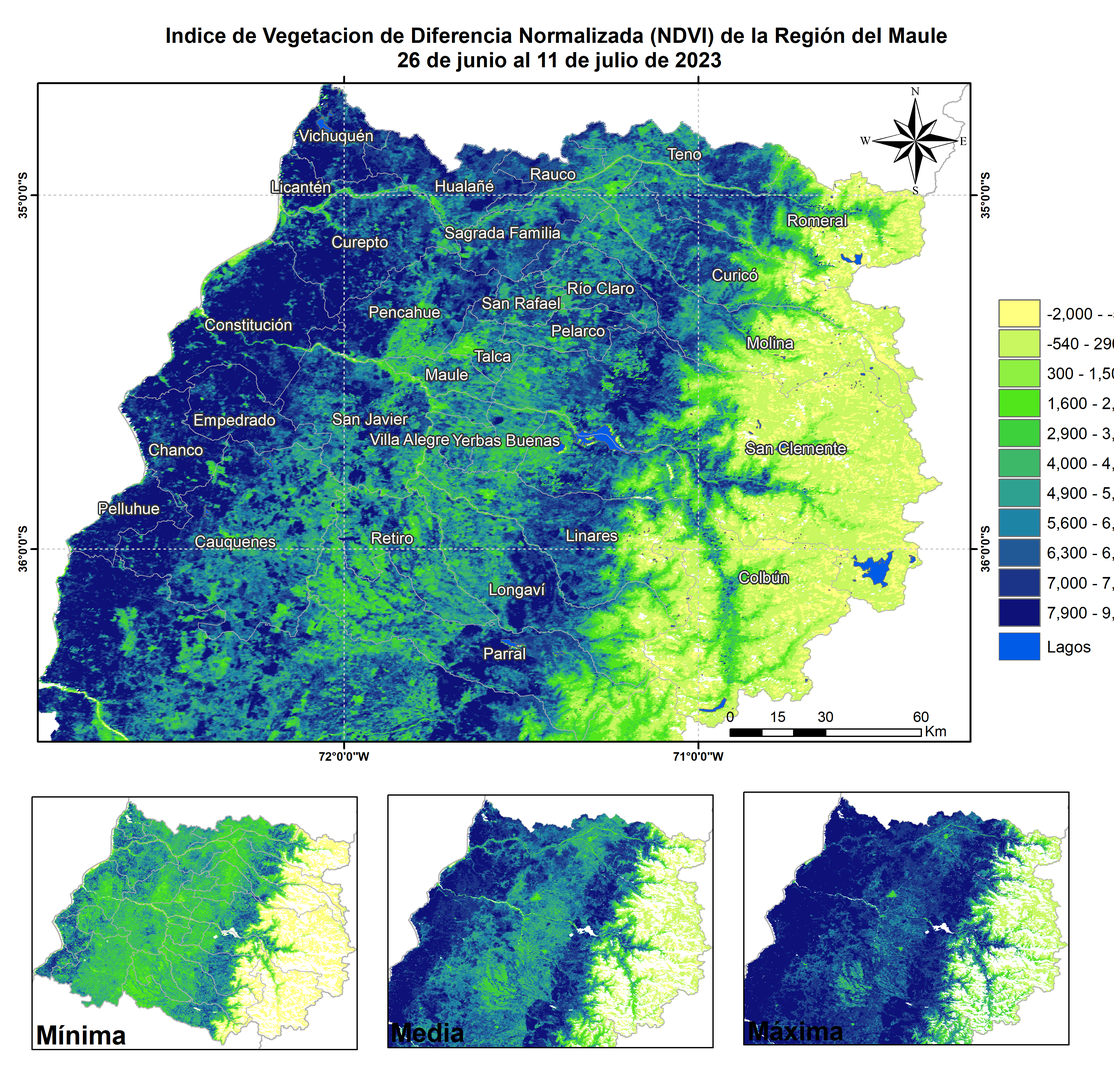
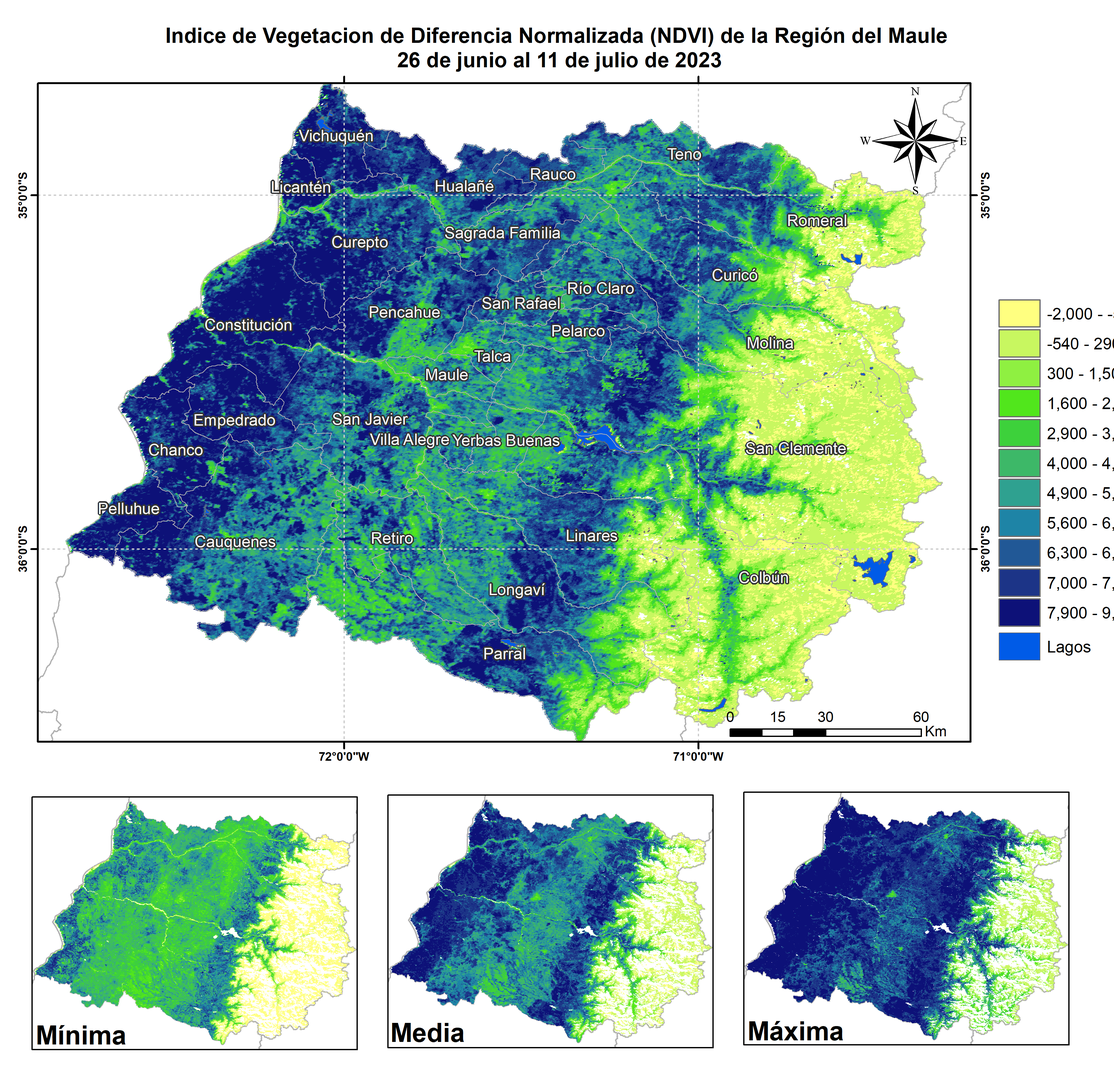
se colocan visibles las capas correctas en los 3 dataframe

diff --git a/NDVI_Y_SAVI.py b/NDVI_Y_SAVI.py
@@ -587,6 +587,16 @@ for veg_index in veg_index_:
                 elem.text = titulo_nuevo
                 break
 
+        tif0="{}_{}_{}.tif".format(region,lyr,veg_index)
+        # Asegurarse de que la capa "tif" está visible
+        df = arcpy.mapping.ListDataFrames(mxd)[0]
+        tif_layers = arcpy.mapping.ListLayers(mxd,tif0,df)
+        if tif_layers:
+            tif_layer = tif_layers[0]
+            tif_layer.visible = True
+            arcpy.RefreshActiveView()
+        else:
+            print("Capa 'TIF0' act no encontrada.")           
         ##--------------------------------------------------------------------------------------------
         #comienzo Dataframe 1
         df = arcpy.mapping.ListDataFrames(mxd)[1]
@@ -616,51 +626,6 @@ for veg_index in veg_index_:
             arcpy.RefreshActiveView()
         else:
             print("Capa 'Regional' no encontrada.")
-
-
-
-#eliminar quizas
-        aplicar_simbologia(region,lyr,df)
-        remover_capa_glaciares()
-        # Establecer la visibilidad y el zoom basado de la región
-        layer_principal_list = arcpy.mapping.ListLayers(mxd, region,df)
-        if layer_principal_list:
-            layer_principal = layer_principal_list[0]
-            arcpy.RefreshActiveView()
-            
-            df.extent = layer_principal.getExtent()
-            arcpy.RefreshActiveView()
-            
-            #layer_principal.visible = False  # Desactivar la visibilidad después del zoom
-            #arcpy.RefreshActiveView()
-        else:
-            print("No se encontró la capa principal {}".format(region))
-            return
-
-        if region == "R13":
-            capas = [layer.name for layer in arcpy.mapping.ListLayers(mxd) if layer.name == "R13"]
-        else:
-            capas = [region]
-
-        capas.extend(["{}_{}_{}.tif".format(region,lyr,veg_index), "Lagos_{}".format(region)])
-        
-     
-
-        for capa in capas:
-            layer_list = arcpy.mapping.ListLayers(mxd, capa,df)
-            if layer_list:
-                layer = layer_list[0]
-                layer.visible = True
-                arcpy.RefreshActiveView()
-            else:
-                print("No se encontró la capa {}".format(capa))
-
-
-
-
-
-
-
 
 
         tif1="{}_{}_{}.tif".format(region,lyr,veg_index)
@@ -771,7 +736,7 @@ for veg_index in veg_index_:
                     layer.visible = False
             
             arcpy.RefreshActiveView()
-        mxd.save()
+    
 
 
 
